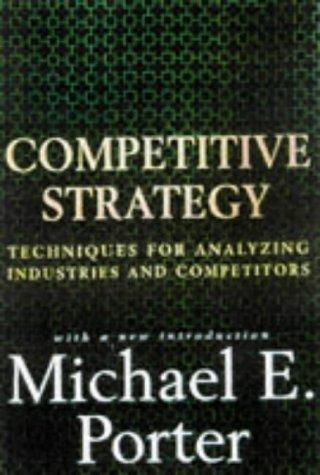
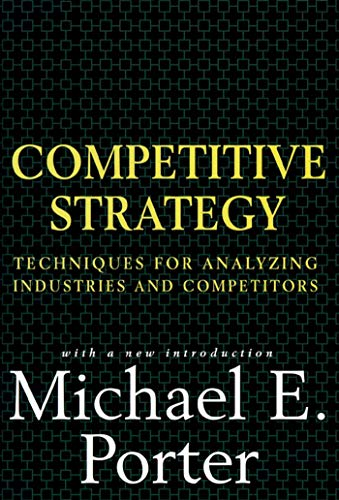
Fix Random Walk cover (was showing the title page); crisper Competitive Strategy
A Random Walk Down Wall Street: ISBN 9780393330335's cover resolved to
a scan of the title page, not the actual front cover -- swapped to the
classic dart-and-dartboard edition (9780393325355), a real cover.
Competitive Strategy: same cover, 320x475 -> 339x500.

diff --git a/books/a-random-walk-down-wall-street.html b/books/a-random-walk-down-wall-street.html
@@ -45,7 +45,7 @@
             <h1 class="detail-title">A Random Walk Down Wall Street</h1>
             <div class="detail-author">By Burton G. Malkiel</div>
             <div class="detail-body">
-                <div class="detail-cover"><img src="../book_covers_additional/9780393330335.jpg" alt="A Random Walk Down Wall Street" onerror="this.parentElement.classList.add('no-image'); this.style.display='none';"><div class="no-image" style="display:none;">No cover available</div></div>
+                <div class="detail-cover"><img src="../book_covers_additional/9780393325355.jpg" alt="A Random Walk Down Wall Street" onerror="this.parentElement.classList.add('no-image'); this.style.display='none';"><div class="no-image" style="display:none;">No cover available</div></div>
                 <div class="detail-notes">
                     <span class="detail-notes-label">My Notes</span>
                     <div class="detail-notes-text"><p>Finished the book, found it nice that he gave due respect to every method before absolutely blasting their returns compared to the buy and hold</p></div>

diff --git a/library.html b/library.html
@@ -75,7 +75,7 @@
                 </div>
             </a>
             <a class="book-tile" href="books/a-random-walk-down-wall-street.html" data-section="finance" data-status="read">
-                <div class="tile-cover"><img src="book_covers_additional/9780393330335.jpg" alt="A Random Walk Down Wall Street" onerror="this.parentElement.classList.add('no-image'); this.style.display='none';"><div class="no-image" style="display:none;">No cover available</div></div>
+                <div class="tile-cover"><img src="book_covers_additional/9780393325355.jpg" alt="A Random Walk Down Wall Street" onerror="this.parentElement.classList.add('no-image'); this.style.display='none';"><div class="no-image" style="display:none;">No cover available</div></div>
                 <div class="tile-meta">
                     <div class="tile-title">A Random Walk Down Wall Street</div>
                     <div class="tile-author">Burton G. Malkiel</div>
